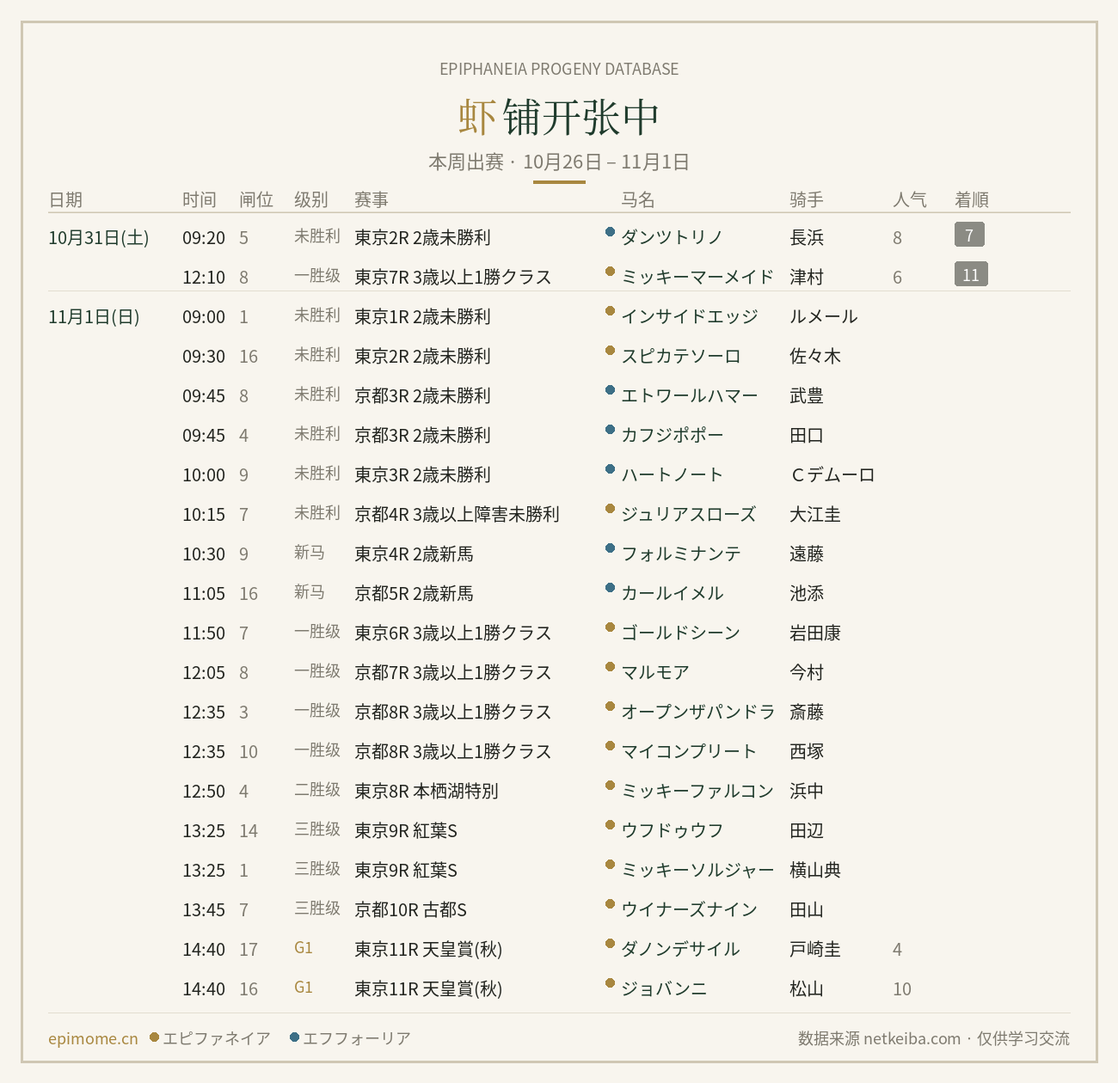
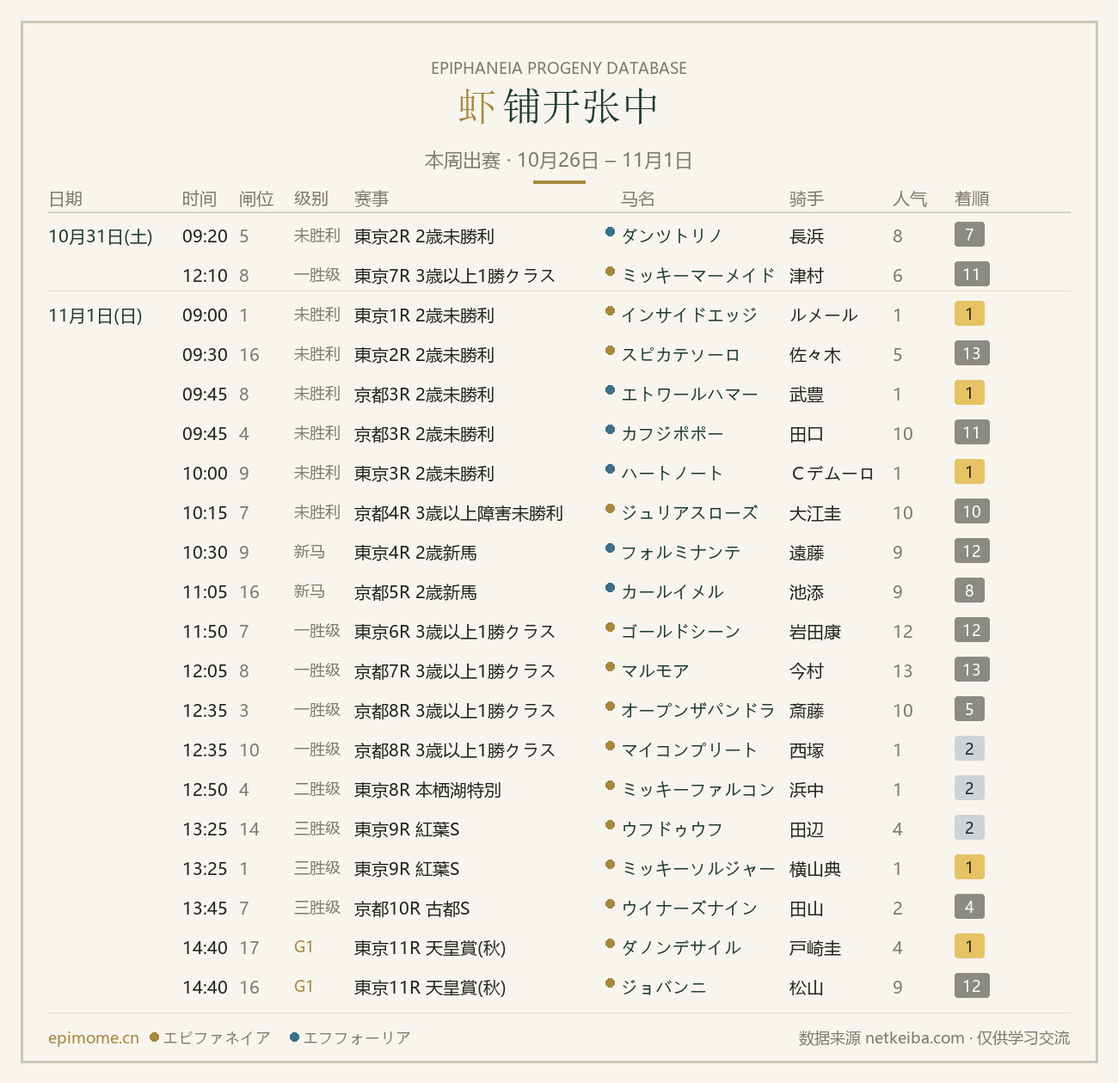
补齐 11-01 赛果并更新出赛表图片
周日定时任务未触发，本机 IP 被 netkeiba 封禁，改在大阪服务器上用有效 cookie 补抓：
补全 18 条赛果，11/01 全部 22 匹均有着順。
同时生成 weekly/2026-11-01.png 与 latest.png，更新日志记一条（33匹）。

diff --git a/thisweek.js b/thisweek.js
@@ -1,2 +1,2 @@
 // 本文件由 scrape_and_build.py 自动生成
-const 本周出马 = [{"date": "10月23日", "time": "13:10", "race": "笠松8R C11組", "cls": "", "status": "結果確定", "name": "レジオンポレール", "id": "2023103786", "jockey": "渡辺竜也", "fav": "", "order": "3", "num": "11", "sire": "エピファネイア", "region": "地方"}, {"date": "10月23日", "time": "14:25", "race": "浦和7R C1五六", "cls": "", "status": "結果確定", "name": "パドメ", "id": "2022107339", "jockey": "秋元耕成", "fav": "", "order": "12", "num": "1", "sire": "エピファネイア", "region": "地方"}, {"date": "10月23日", "time": "16:20", "race": "園田6R C3", "cls": "", "status": "結果確定", "name": "キャスパインパクト", "id": "2022100963", "jockey": "永井孝典", "fav": "", "order": "8", "num": "5", "sire": "エピファネイア", "region": "地方"}, {"date": "10月23日", "time": "17:30", "race": "園田8R C2二", "cls": "", "status": "結果確定", "name": "ヤマトフェイス", "id": "2021105013", "jockey": "田野豊三", "fav": "", "order": "2", "num": "9", "sire": "エピファネイア", "region": "地方"}, {"date": "10月24日(土)", "time": "09:05", "rid": "202605040801", "race": "東京1R 2歳未勝利", "cls": "未胜利", "status": "結果確定", "name": "マーゴットパラディ", "id": "2024101971", "jockey": "荻野極", "fav": "2番人気", "order": "3", "num": "7", "sire": "エフフォーリア", "region": "中央"}, {"date": "10月24日(土)", "time": "09:15", "rid": "202604040302", "race": "新潟2R 2歳未勝利", "cls": "未胜利", "status": "結果確定", "name": "リーゼントエース", "id": "2024104845", "jockey": "古川奈", "fav": "13番人気", "order": "9", "num": "1", "sire": "エフフォーリア", "region": "中央"}, {"date": "10月24日(土)", "time": "10:05", "rid": "202605040803", "race": "東京3R 2歳未勝利", "cls": "未胜利", "status": "結果確定", "name": "タンタフェリチア", "id": "2024101733", "jockey": "横山和", "fav": "1番人気", "order": "1", "num": "8", "sire": "エフフォーリア", "region": "中央"}, {"date": "10月24日(土)", "time": "10:05", "rid": "202605040803", "race": "東京3R 2歳未勝利", "cls": "未胜利", "status": "結果確定", "name": "ディアム", "id": "2024102901", "jockey": "横山武", "fav": "4番人気", "order": "4", "num": "7", "sire": "エフフォーリア", "region": "中央"}, {"date": "10月24日(土)", "time": "11:15", "rid": "202608040805", "race": "京都5R 2歳新馬", "cls": "新马", "status": "結果確定", "name": "ダブルインバース", "id": "2024100462", "jockey": "松山", "fav": "5番人気", "order": "3", "num": "8", "sire": "エピファネイア", "region": "中央"}, {"date": "10月24日(土)", "time": "11:35", "rid": "202604040306", "race": "新潟6R 3歳以上1勝クラス", "cls": "一胜级", "status": "結果確定", "name": "ソードマスター", "id": "2022105415", "jockey": "長浜", "fav": "11番人気", "order": "11", "num": "10", "sire": "エピファネイア", "region": "中央"}, {"date": "10月24日(土)", "time": "12:15", "rid": "202608040807", "race": "京都7R 3歳以上1勝クラス", "cls": "一胜级", "status": "結果確定", "name": "エレーデサンライズ", "id": "2023100912", "jockey": "幸", "fav": "9番人気", "order": "5", "num": "3", "sire": "エピファネイア", "region": "中央"}, {"date": "10月24日(土)", "time": "12:55", "rid": "202605040808", "race": "東京8R 3歳以上1勝クラス", "cls": "一胜级", "status": "結果確定", "name": "アートバーゼル", "id": "2023106964", "jockey": "ルメール", "fav": "1番人気", "order": "3", "num": "5", "sire": "エピファネイア", "region": "中央"}, {"date": "10月24日(土)", "time": "14:15", "rid": "202604040311", "race": "新潟11R 魚沼S", "cls": "三胜级", "status": "結果確定", "name": "フィオレストラーダ", "id": "2022100626", "jockey": "横山琉", "fav": "4番人気", "order": "12", "num": "6", "sire": "エピファネイア", "region": "中央"}, {"date": "10月24日(土)", "time": "15:01", "rid": "202604040312", "race": "新潟12R 3歳以上1勝クラス", "cls": "一胜级", "status": "結果確定", "name": "リアライズブラーヴ", "id": "2023103678", "jockey": "斎藤", "fav": "2番人気", "order": "2", "num": "6", "sire": "エピファネイア", "region": "中央"}, {"date": "10月24日", "time": "15:40", "rid": "202654102404", "race": "高知4R C3ー9", "cls": "", "status": "結果確定", "name": "エンドレスバンカー", "id": "2022102860", "jockey": "木村直輝", "fav": "", "order": "4", "num": "8", "sire": "エピファネイア", "region": "地方"}, {"date": "10月24日", "time": "15:40", "rid": "202654102404", "race": "高知4R C3ー9", "cls": "", "status": "結果確定", "name": "ケイベエ", "id": "2023102803", "jockey": "上田将司", "fav": "", "order": "9", "num": "12", "sire": "エピファネイア", "region": "地方"}, {"date": "10月25日(日)", "time": "08:50", "rid": "202605040901", "race": "東京1R 2歳未勝利", "cls": "未胜利", "status": "結果確定", "name": "ローザベッラ", "id": "2024101670", "jockey": "三浦", "fav": "7番人気", "order": "15", "num": "5", "sire": "エフフォーリア", "region": "中央"}, {"date": "10月25日(日)", "time": "10:20", "rid": "202605040904", "race": "東京4R 3歳以上障害未勝利", "cls": "未胜利", "status": "結果確定", "name": "ドリームクルーズ", "id": "2021104899", "jockey": "上野", "fav": "6番人気", "order": "8", "num": "11", "sire": "エピファネイア", "region": "中央"}, {"date": "10月25日(日)", "time": "11:10", "rid": "202605040905", "race": "東京5R 2歳新馬", "cls": "新马", "status": "結果確定", "name": "ノヴァルクス", "id": "2024106557", "jockey": "横山武", "fav": "1番人気", "order": "1", "num": "3", "sire": "エフフォーリア", "region": "中央"}, {"date": "10月25日(日)", "time": "11:10", "rid": "202605040905", "race": "東京5R 2歳新馬", "cls": "新马", "status": "結果確定", "name": "ブレッシングロード", "id": "2024106026", "jockey": "長浜", "fav": "5番人気", "order": "6", "num": "6", "sire": "エピファネイア", "region": "中央"}, {"date": "10月25日", "time": "11:15", "rid": "202635102502", "race": "盛岡2R C2十一組", "cls": "", "status": "結果確定", "name": "グロー", "id": "2019106683", "jockey": "山本聡紀", "fav": "", "order": "取止", "num": "1", "sire": "エピファネイア", "region": "地方"}, {"date": "10月25日(日)", "time": "12:00", "rid": "202604040407", "race": "新潟7R 3歳以上1勝クラス", "cls": "一胜级", "status": "結果確定", "name": "カドーダムール", "id": "2023107291", "jockey": "古川奈", "fav": "7番人気", "order": "6", "num": "5", "sire": "エピファネイア", "region": "中央"}, {"date": "10月25日(日)", "time": "12:40", "rid": "202605040908", "race": "東京8R 3歳以上1勝クラス", "cls": "一胜级", "status": "結果確定", "name": "ケールハイム", "id": "2023107138", "jockey": "菅原明", "fav": "2番人気", "order": "14", "num": "6", "sire": "エピファネイア", "region": "中央"}, {"date": "10月25日(日)", "time": "13:10", "rid": "202605040909", "race": "東京9R 三鷹特別", "cls": "二胜级", "status": "結果確定", "name": "シルバーレイン", "id": "2022104942", "jockey": "菅原明", "fav": "6番人気", "order": "11", "num": "8", "sire": "エピファネイア", "region": "中央"}, {"date": "10月25日(日)", "time": "13:25", "rid": "202608040909", "race": "京都9R 萩S", "cls": "表列赛", "status": "結果確定", "name": "ユーダブルワン", "id": "2024106002", "jockey": "西村淳", "fav": "9番人気", "order": "8", "num": "2", "sire": "エピファネイア", "region": "中央"}, {"date": "10月25日(日)", "time": "13:25", "rid": "202608040909", "race": "京都9R 萩S", "cls": "表列赛", "status": "結果確定", "name": "イッペイ", "id": "2024104442", "jockey": "浜中", "fav": "4番人気", "order": "1", "num": "7", "sire": "エフフォーリア", "region": "中央"}, {"date": "10月25日(日)", "time": "13:25", "rid": "202608040909", "race": "京都9R 萩S", "cls": "表列赛", "status": "結果確定", "name": "フランソワーズ", "id": "2024105037", "jockey": "松山", "fav": "7番人気", "order": "3", "num": "1", "sire": "エフフォーリア", "region": "中央"}, {"date": "10月25日(日)", "time": "14:40", "rid": "202608040911", "race": "京都11R 菊花賞", "cls": "G1", "status": "結果確定", "name": "ダノンヒストリー", "id": "2023107005", "jockey": "ルメール", "fav": "2番人気", "order": "3", "num": "10", "sire": "エピファネイア", "region": "中央"}, {"date": "10月25日(日)", "time": "15:01", "rid": "202604040412", "race": "新潟12R 3歳以上1勝クラス", "cls": "一胜级", "status": "結果確定", "name": "ビーグラッド", "id": "2021100683", "jockey": "小沢", "fav": "11番人気", "order": "1", "num": "6", "sire": "エピファネイア", "region": "中央"}, {"date": "10月25日", "time": "17:35", "rid": "202654102507", "race": "高知7R C3ー13", "cls": "", "status": "結果確定", "name": "トーセンブレンダ", "id": "2021104712", "jockey": "塚本直之", "fav": "", "order": "8", "num": "6", "sire": "エピファネイア", "region": "地方"}, {"date": "10月26日", "time": "19:40", "rid": "202655102612", "race": "佐賀12R SAGAリベFEVER14", "cls": "", "status": "結果確定", "name": "ハードロックスター", "id": "2022103590", "jockey": "山下裕貴", "fav": "", "order": "9", "num": "14", "sire": "エピファネイア", "region": "地方"}, {"date": "10月27日", "time": "14:15", "rid": "202648102706", "race": "名古屋6R C20組", "cls": "", "status": "出馬表", "name": "ロマンス", "id": "2023102234", "jockey": "小笠原羚", "fav": "3番人気", "order": "", "num": "9", "sire": "エピファネイア", "region": "地方"}, {"date": "10月27日", "time": "15:20", "rid": "202635102709", "race": "盛岡9R C1二組", "cls": "", "status": "出馬表", "name": "サウンドノバ", "id": "2021103250", "jockey": "塚本涼人", "fav": "6番人気", "order": "", "num": "4", "sire": "エピファネイア", "region": "地方"}, {"date": "10月27日", "time": "15:55", "rid": "202635102710", "race": "盛岡10R シェアト賞", "cls": "", "status": "結果確定", "name": "ファーザーアウェイ", "id": "2023104371", "jockey": "菅原辰徳", "fav": "", "order": "11", "num": "11", "sire": "エピファネイア", "region": "地方"}, {"date": "10月28日", "time": "10:10", "rid": "202650102802", "race": "園田2R C3一", "cls": "", "status": "出馬表", "name": "エザルターレ", "id": "2021106162", "jockey": "永井孝典", "fav": "", "order": "", "num": "8", "sire": "エピファネイア", "region": "地方"}, {"date": "10月28日", "time": "17:40", "rid": "202630102809", "race": "門別9R カシワ特別", "cls": "", "status": "出馬表", "name": "フロンテアブライト", "id": "2020106799", "jockey": "宮内勇樹", "fav": "", "order": "", "num": "6", "sire": "エピファネイア", "region": "地方"}, {"date": "10月29日", "time": "17:10", "rid": "202630102908", "race": "門別8R マタタビ特別", "cls": "", "status": "結果確定", "name": "フォーティンブラス", "id": "2023103776", "jockey": "落合玄太", "fav": "", "order": "2", "num": "6", "sire": "エピファネイア", "region": "地方"}, {"date": "10月31日(土)", "time": "09:20", "rid": "202605041002", "race": "東京2R 2歳未勝利", "cls": "未胜利", "status": "結果確定", "name": "ダンツトリノ", "id": "2024105504", "jockey": "長浜", "fav": "8", "order": "7", "num": "5", "sire": "エフフォーリア", "region": "中央"}, {"date": "10月31日(土)", "time": "12:10", "rid": "202605041007", "race": "東京7R 3歳以上1勝クラス", "cls": "一胜级", "status": "結果確定", "name": "ミッキーマーメイド", "id": "2023105002", "jockey": "津村", "fav": "6", "order": "11", "num": "8", "sire": "エピファネイア", "region": "中央"}, {"date": "10月31日", "time": "17:05", "rid": "202655103107", "race": "佐賀7R C2ー3組", "cls": "", "status": "出馬表", "name": "モスコビウム", "id": "2021103200", "jockey": "長谷川蓮", "fav": "11番人気", "order": "", "num": "11", "sire": "エピファネイア", "region": "地方"}, {"date": "10月31日", "time": "19:50", "rid": "202654103112", "race": "高知12R ファイナルレース", "cls": "", "status": "出馬表", "name": "ウインリベラーレ", "id": "2021106207", "jockey": "石本純也", "fav": "2番人気", "order": "", "num": "11", "sire": "エピファネイア", "region": "地方"}, {"date": "11月1日(日)", "time": "09:00", "rid": "202605041101", "race": "東京1R 2歳未勝利", "cls": "未胜利", "status": "出馬表", "name": "インサイドエッジ", "id": "2024107186", "jockey": "ルメール", "fav": "", "order": "", "num": "1", "sire": "エピファネイア", "region": "中央"}, {"date": "11月1日(日)", "time": "09:30", "rid": "202605041102", "race": "東京2R 2歳未勝利", "cls": "未胜利", "status": "出馬表", "name": "スピカテソーロ", "id": "2024101273", "jockey": "佐々木", "fav": "", "order": "", "num": "16", "sire": "エピファネイア", "region": "中央"}, {"date": "11月1日(日)", "time": "09:45", "rid": "202608041103", "race": "京都3R 2歳未勝利", "cls": "未胜利", "status": "出馬表", "name": "エトワールハマー", "id": "2024100737", "jockey": "武豊", "fav": "", "order": "", "num": "8", "sire": "エフフォーリア", "region": "中央"}, {"date": "11月1日(日)", "time": "09:45", "rid": "202608041103", "race": "京都3R 2歳未勝利", "cls": "未胜利", "status": "出馬表", "name": "カフジポポー", "id": "2024104468", "jockey": "田口", "fav": "", "order": "", "num": "4", "sire": "エフフォーリア", "region": "中央"}, {"date": "11月1日(日)", "time": "10:00", "rid": "202605041103", "race": "東京3R 2歳未勝利", "cls": "未胜利", "status": "出馬表", "name": "ハートノート", "id": "2024106226", "jockey": "Ｃデムーロ", "fav": "", "order": "", "num": "9", "sire": "エフフォーリア", "region": "中央"}, {"date": "11月1日(日)", "time": "10:15", "rid": "202608041104", "race": "京都4R 3歳以上障害未勝利", "cls": "未胜利", "status": "出馬表", "name": "ジュリアスローズ", "id": "2021103506", "jockey": "大江圭", "fav": "", "order": "", "num": "7", "sire": "エピファネイア", "region": "中央"}, {"date": "11月1日(日)", "time": "10:30", "rid": "202605041104", "race": "東京4R 2歳新馬", "cls": "新马", "status": "出馬表", "name": "フォルミナンテ", "id": "2024100060", "jockey": "遠藤", "fav": "", "order": "", "num": "9", "sire": "エフフォーリア", "region": "中央"}, {"date": "11月1日(日)", "time": "11:05", "rid": "202608041105", "race": "京都5R 2歳新馬", "cls": "新马", "status": "出馬表", "name": "カールイメル", "id": "2024102524", "jockey": "池添", "fav": "", "order": "", "num": "16", "sire": "エフフォーリア", "region": "中央"}, {"date": "11月1日(日)", "time": "11:50", "rid": "202605041106", "race": "東京6R 3歳以上1勝クラス", "cls": "一胜级", "status": "出馬表", "name": "ゴールドシーン", "id": "2020103727", "jockey": "岩田康", "fav": "", "order": "", "num": "7", "sire": "エピファネイア", "region": "中央"}, {"date": "11月1日", "time": "12:00", "rid": "202635110103", "race": "盛岡3R C2十一組", "cls": "", "status": "出馬表", "name": "グロー", "id": "2019106683", "jockey": "山本聡紀", "fav": "", "order": "", "num": "9", "sire": "エピファネイア", "region": "地方"}, {"date": "11月1日(日)", "time": "12:05", "rid": "202608041107", "race": "京都7R 3歳以上1勝クラス", "cls": "一胜级", "status": "出馬表", "name": "マルモア", "id": "2021105245", "jockey": "今村", "fav": "", "order": "", "num": "8", "sire": "エピファネイア", "region": "中央"}, {"date": "11月1日(日)", "time": "12:35", "rid": "202608041108", "race": "京都8R 3歳以上1勝クラス", "cls": "一胜级", "status": "出馬表", "name": "オープンザパンドラ", "id": "2023105573", "jockey": "斎藤", "fav": "", "order": "", "num": "3", "sire": "エピファネイア", "region": "中央"}, {"date": "11月1日(日)", "time": "12:35", "rid": "202608041108", "race": "京都8R 3歳以上1勝クラス", "cls": "一胜级", "status": "出馬表", "name": "マイコンプリート", "id": "2023107155", "jockey": "西塚", "fav": "", "order": "", "num": "10", "sire": "エピファネイア", "region": "中央"}, {"date": "11月1日", "time": "12:40", "rid": "202635110104", "race": "盛岡4R C2十組", "cls": "", "status": "出馬表", "name": "トゥルパーニ", "id": "2023103600", "jockey": "菅原辰徳", "fav": "", "order": "", "num": "5", "sire": "エピファネイア", "region": "地方"}, {"date": "11月1日(日)", "time": "12:50", "rid": "202605041108", "race": "東京8R 本栖湖特別", "cls": "二胜级", "status": "出馬表", "name": "ミッキーファルコン", "id": "2023107259", "jockey": "浜中", "fav": "", "order": "", "num": "4", "sire": "エピファネイア", "region": "中央"}, {"date": "11月1日(日)", "time": "13:25", "rid": "202605041109", "race": "東京9R 紅葉S", "cls": "三胜级", "status": "出馬表", "name": "ウフドゥウフ", "id": "2022105257", "jockey": "田辺", "fav": "", "order": "", "num": "14", "sire": "エピファネイア", "region": "中央"}, {"date": "11月1日(日)", "time": "13:25", "rid": "202605041109", "race": "東京9R 紅葉S", "cls": "三胜级", "status": "出馬表", "name": "ミッキーソルジャー", "id": "2022105520", "jockey": "横山典", "fav": "", "order": "", "num": "1", "sire": "エピファネイア", "region": "中央"}, {"date": "11月1日(日)", "time": "13:45", "rid": "202608041110", "race": "京都10R 古都S", "cls": "三胜级", "status": "出馬表", "name": "ウイナーズナイン", "id": "2023102820", "jockey": "田山", "fav": "", "order": "", "num": "7", "sire": "エピファネイア", "region": "中央"}, {"date": "11月1日(日)", "time": "14:40", "rid": "202605041111", "race": "東京11R 天皇賞(秋)", "cls": "G1", "status": "出馬表", "name": "ダノンデサイル", "id": "2021105143", "jockey": "戸崎圭", "fav": "4番人気", "order": "", "num": "17", "sire": "エピファネイア", "region": "中央"}, {"date": "11月1日(日)", "time": "14:40", "rid": "202605041111", "race": "東京11R 天皇賞(秋)", "cls": "G1", "status": "出馬表", "name": "ジョバンニ", "id": "2022103995", "jockey": "松山", "fav": "10番人気", "order": "", "num": "16", "sire": "エピファネイア", "region": "中央"}, {"date": "11月1日", "time": "16:05", "rid": "202654110105", "race": "高知5R 花みょうが特別", "cls": "", "status": "出馬表", "name": "スカイブルー", "id": "2022100136", "jockey": "上田将司", "fav": "", "order": "", "num": "1", "sire": "エピファネイア", "region": "地方"}, {"date": "11月1日", "time": "19:40", "rid": "202655110112", "race": "佐賀12R SAGAリベFEVER14", "cls": "", "status": "出馬表", "name": "アサガクル", "id": "2022106600", "jockey": "山田義貴", "fav": "", "order": "", "num": "8", "sire": "エピファネイア", "region": "地方"}];
+const 本周出马 = [{"date": "10月23日", "time": "13:10", "race": "笠松8R C11組", "cls": "", "status": "結果確定", "name": "レジオンポレール", "id": "2023103786", "jockey": "渡辺竜也", "fav": "", "order": "3", "num": "11", "sire": "エピファネイア", "region": "地方"}, {"date": "10月23日", "time": "14:25", "race": "浦和7R C1五六", "cls": "", "status": "結果確定", "name": "パドメ", "id": "2022107339", "jockey": "秋元耕成", "fav": "", "order": "12", "num": "1", "sire": "エピファネイア", "region": "地方"}, {"date": "10月23日", "time": "16:20", "race": "園田6R C3", "cls": "", "status": "結果確定", "name": "キャスパインパクト", "id": "2022100963", "jockey": "永井孝典", "fav": "", "order": "8", "num": "5", "sire": "エピファネイア", "region": "地方"}, {"date": "10月23日", "time": "17:30", "race": "園田8R C2二", "cls": "", "status": "結果確定", "name": "ヤマトフェイス", "id": "2021105013", "jockey": "田野豊三", "fav": "", "order": "2", "num": "9", "sire": "エピファネイア", "region": "地方"}, {"date": "10月24日(土)", "time": "09:05", "rid": "202605040801", "race": "東京1R 2歳未勝利", "cls": "未胜利", "status": "結果確定", "name": "マーゴットパラディ", "id": "2024101971", "jockey": "荻野極", "fav": "2番人気", "order": "3", "num": "7", "sire": "エフフォーリア", "region": "中央"}, {"date": "10月24日(土)", "time": "09:15", "rid": "202604040302", "race": "新潟2R 2歳未勝利", "cls": "未胜利", "status": "結果確定", "name": "リーゼントエース", "id": "2024104845", "jockey": "古川奈", "fav": "13番人気", "order": "9", "num": "1", "sire": "エフフォーリア", "region": "中央"}, {"date": "10月24日(土)", "time": "10:05", "rid": "202605040803", "race": "東京3R 2歳未勝利", "cls": "未胜利", "status": "結果確定", "name": "タンタフェリチア", "id": "2024101733", "jockey": "横山和", "fav": "1番人気", "order": "1", "num": "8", "sire": "エフフォーリア", "region": "中央"}, {"date": "10月24日(土)", "time": "10:05", "rid": "202605040803", "race": "東京3R 2歳未勝利", "cls": "未胜利", "status": "結果確定", "name": "ディアム", "id": "2024102901", "jockey": "横山武", "fav": "4番人気", "order": "4", "num": "7", "sire": "エフフォーリア", "region": "中央"}, {"date": "10月24日(土)", "time": "11:15", "rid": "202608040805", "race": "京都5R 2歳新馬", "cls": "新马", "status": "結果確定", "name": "ダブルインバース", "id": "2024100462", "jockey": "松山", "fav": "5番人気", "order": "3", "num": "8", "sire": "エピファネイア", "region": "中央"}, {"date": "10月24日(土)", "time": "11:35", "rid": "202604040306", "race": "新潟6R 3歳以上1勝クラス", "cls": "一胜级", "status": "結果確定", "name": "ソードマスター", "id": "2022105415", "jockey": "長浜", "fav": "11番人気", "order": "11", "num": "10", "sire": "エピファネイア", "region": "中央"}, {"date": "10月24日(土)", "time": "12:15", "rid": "202608040807", "race": "京都7R 3歳以上1勝クラス", "cls": "一胜级", "status": "結果確定", "name": "エレーデサンライズ", "id": "2023100912", "jockey": "幸", "fav": "9番人気", "order": "5", "num": "3", "sire": "エピファネイア", "region": "中央"}, {"date": "10月24日(土)", "time": "12:55", "rid": "202605040808", "race": "東京8R 3歳以上1勝クラス", "cls": "一胜级", "status": "結果確定", "name": "アートバーゼル", "id": "2023106964", "jockey": "ルメール", "fav": "1番人気", "order": "3", "num": "5", "sire": "エピファネイア", "region": "中央"}, {"date": "10月24日(土)", "time": "14:15", "rid": "202604040311", "race": "新潟11R 魚沼S", "cls": "三胜级", "status": "結果確定", "name": "フィオレストラーダ", "id": "2022100626", "jockey": "横山琉", "fav": "4番人気", "order": "12", "num": "6", "sire": "エピファネイア", "region": "中央"}, {"date": "10月24日(土)", "time": "15:01", "rid": "202604040312", "race": "新潟12R 3歳以上1勝クラス", "cls": "一胜级", "status": "結果確定", "name": "リアライズブラーヴ", "id": "2023103678", "jockey": "斎藤", "fav": "2番人気", "order": "2", "num": "6", "sire": "エピファネイア", "region": "中央"}, {"date": "10月24日", "time": "15:40", "rid": "202654102404", "race": "高知4R C3ー9", "cls": "", "status": "結果確定", "name": "エンドレスバンカー", "id": "2022102860", "jockey": "木村直輝", "fav": "", "order": "4", "num": "8", "sire": "エピファネイア", "region": "地方"}, {"date": "10月24日", "time": "15:40", "rid": "202654102404", "race": "高知4R C3ー9", "cls": "", "status": "結果確定", "name": "ケイベエ", "id": "2023102803", "jockey": "上田将司", "fav": "", "order": "9", "num": "12", "sire": "エピファネイア", "region": "地方"}, {"date": "10月25日(日)", "time": "08:50", "rid": "202605040901", "race": "東京1R 2歳未勝利", "cls": "未胜利", "status": "結果確定", "name": "ローザベッラ", "id": "2024101670", "jockey": "三浦", "fav": "7番人気", "order": "15", "num": "5", "sire": "エフフォーリア", "region": "中央"}, {"date": "10月25日(日)", "time": "10:20", "rid": "202605040904", "race": "東京4R 3歳以上障害未勝利", "cls": "未胜利", "status": "結果確定", "name": "ドリームクルーズ", "id": "2021104899", "jockey": "上野", "fav": "6番人気", "order": "8", "num": "11", "sire": "エピファネイア", "region": "中央"}, {"date": "10月25日(日)", "time": "11:10", "rid": "202605040905", "race": "東京5R 2歳新馬", "cls": "新马", "status": "結果確定", "name": "ノヴァルクス", "id": "2024106557", "jockey": "横山武", "fav": "1番人気", "order": "1", "num": "3", "sire": "エフフォーリア", "region": "中央"}, {"date": "10月25日(日)", "time": "11:10", "rid": "202605040905", "race": "東京5R 2歳新馬", "cls": "新马", "status": "結果確定", "name": "ブレッシングロード", "id": "2024106026", "jockey": "長浜", "fav": "5番人気", "order": "6", "num": "6", "sire": "エピファネイア", "region": "中央"}, {"date": "10月25日", "time": "11:15", "rid": "202635102502", "race": "盛岡2R C2十一組", "cls": "", "status": "結果確定", "name": "グロー", "id": "2019106683", "jockey": "山本聡紀", "fav": "", "order": "取止", "num": "1", "sire": "エピファネイア", "region": "地方"}, {"date": "10月25日(日)", "time": "12:00", "rid": "202604040407", "race": "新潟7R 3歳以上1勝クラス", "cls": "一胜级", "status": "結果確定", "name": "カドーダムール", "id": "2023107291", "jockey": "古川奈", "fav": "7番人気", "order": "6", "num": "5", "sire": "エピファネイア", "region": "中央"}, {"date": "10月25日(日)", "time": "12:40", "rid": "202605040908", "race": "東京8R 3歳以上1勝クラス", "cls": "一胜级", "status": "結果確定", "name": "ケールハイム", "id": "2023107138", "jockey": "菅原明", "fav": "2番人気", "order": "14", "num": "6", "sire": "エピファネイア", "region": "中央"}, {"date": "10月25日(日)", "time": "13:10", "rid": "202605040909", "race": "東京9R 三鷹特別", "cls": "二胜级", "status": "結果確定", "name": "シルバーレイン", "id": "2022104942", "jockey": "菅原明", "fav": "6番人気", "order": "11", "num": "8", "sire": "エピファネイア", "region": "中央"}, {"date": "10月25日(日)", "time": "13:25", "rid": "202608040909", "race": "京都9R 萩S", "cls": "表列赛", "status": "結果確定", "name": "ユーダブルワン", "id": "2024106002", "jockey": "西村淳", "fav": "9番人気", "order": "8", "num": "2", "sire": "エピファネイア", "region": "中央"}, {"date": "10月25日(日)", "time": "13:25", "rid": "202608040909", "race": "京都9R 萩S", "cls": "表列赛", "status": "結果確定", "name": "イッペイ", "id": "2024104442", "jockey": "浜中", "fav": "4番人気", "order": "1", "num": "7", "sire": "エフフォーリア", "region": "中央"}, {"date": "10月25日(日)", "time": "13:25", "rid": "202608040909", "race": "京都9R 萩S", "cls": "表列赛", "status": "結果確定", "name": "フランソワーズ", "id": "2024105037", "jockey": "松山", "fav": "7番人気", "order": "3", "num": "1", "sire": "エフフォーリア", "region": "中央"}, {"date": "10月25日(日)", "time": "14:40", "rid": "202608040911", "race": "京都11R 菊花賞", "cls": "G1", "status": "結果確定", "name": "ダノンヒストリー", "id": "2023107005", "jockey": "ルメール", "fav": "2番人気", "order": "3", "num": "10", "sire": "エピファネイア", "region": "中央"}, {"date": "10月25日(日)", "time": "15:01", "rid": "202604040412", "race": "新潟12R 3歳以上1勝クラス", "cls": "一胜级", "status": "結果確定", "name": "ビーグラッド", "id": "2021100683", "jockey": "小沢", "fav": "11番人気", "order": "1", "num": "6", "sire": "エピファネイア", "region": "中央"}, {"date": "10月25日", "time": "17:35", "rid": "202654102507", "race": "高知7R C3ー13", "cls": "", "status": "結果確定", "name": "トーセンブレンダ", "id": "2021104712", "jockey": "塚本直之", "fav": "", "order": "8", "num": "6", "sire": "エピファネイア", "region": "地方"}, {"date": "10月26日", "time": "19:40", "rid": "202655102612", "race": "佐賀12R SAGAリベFEVER14", "cls": "", "status": "結果確定", "name": "ハードロックスター", "id": "2022103590", "jockey": "山下裕貴", "fav": "", "order": "9", "num": "14", "sire": "エピファネイア", "region": "地方"}, {"date": "10月27日", "time": "14:15", "rid": "202648102706", "race": "名古屋6R C20組", "cls": "", "status": "出馬表", "name": "ロマンス", "id": "2023102234", "jockey": "小笠原羚", "fav": "3番人気", "order": "", "num": "9", "sire": "エピファネイア", "region": "地方"}, {"date": "10月27日", "time": "15:20", "rid": "202635102709", "race": "盛岡9R C1二組", "cls": "", "status": "出馬表", "name": "サウンドノバ", "id": "2021103250", "jockey": "塚本涼人", "fav": "6番人気", "order": "", "num": "4", "sire": "エピファネイア", "region": "地方"}, {"date": "10月27日", "time": "15:55", "rid": "202635102710", "race": "盛岡10R シェアト賞", "cls": "", "status": "結果確定", "name": "ファーザーアウェイ", "id": "2023104371", "jockey": "菅原辰徳", "fav": "", "order": "11", "num": "11", "sire": "エピファネイア", "region": "地方"}, {"date": "10月28日", "time": "10:10", "rid": "202650102802", "race": "園田2R C3一", "cls": "", "status": "出馬表", "name": "エザルターレ", "id": "2021106162", "jockey": "永井孝典", "fav": "", "order": "", "num": "8", "sire": "エピファネイア", "region": "地方"}, {"date": "10月28日", "time": "17:40", "rid": "202630102809", "race": "門別9R カシワ特別", "cls": "", "status": "出馬表", "name": "フロンテアブライト", "id": "2020106799", "jockey": "宮内勇樹", "fav": "", "order": "", "num": "6", "sire": "エピファネイア", "region": "地方"}, {"date": "10月29日", "time": "17:10", "rid": "202630102908", "race": "門別8R マタタビ特別", "cls": "", "status": "結果確定", "name": "フォーティンブラス", "id": "2023103776", "jockey": "落合玄太", "fav": "", "order": "2", "num": "6", "sire": "エピファネイア", "region": "地方"}, {"date": "10月31日(土)", "time": "09:20", "rid": "202605041002", "race": "東京2R 2歳未勝利", "cls": "未胜利", "status": "結果確定", "name": "ダンツトリノ", "id": "2024105504", "jockey": "長浜", "fav": "8", "order": "7", "num": "5", "sire": "エフフォーリア", "region": "中央"}, {"date": "10月31日(土)", "time": "12:10", "rid": "202605041007", "race": "東京7R 3歳以上1勝クラス", "cls": "一胜级", "status": "結果確定", "name": "ミッキーマーメイド", "id": "2023105002", "jockey": "津村", "fav": "6", "order": "11", "num": "8", "sire": "エピファネイア", "region": "中央"}, {"date": "10月31日", "time": "17:05", "rid": "202655103107", "race": "佐賀7R C2ー3組", "cls": "", "status": "結果確定", "name": "モスコビウム", "id": "2021103200", "jockey": "長谷川蓮", "fav": "", "order": "9", "num": "11", "sire": "エピファネイア", "region": "地方"}, {"date": "10月31日", "time": "19:50", "rid": "202654103112", "race": "高知12R ファイナルレース", "cls": "", "status": "結果確定", "name": "ウインリベラーレ", "id": "2021106207", "jockey": "石本純也", "fav": "", "order": "3", "num": "11", "sire": "エピファネイア", "region": "地方"}, {"date": "11月1日(日)", "time": "09:00", "rid": "202605041101", "race": "東京1R 2歳未勝利", "cls": "未胜利", "status": "結果確定", "name": "インサイドエッジ", "id": "2024107186", "jockey": "ルメール", "fav": "1", "order": "1", "num": "1", "sire": "エピファネイア", "region": "中央"}, {"date": "11月1日(日)", "time": "09:30", "rid": "202605041102", "race": "東京2R 2歳未勝利", "cls": "未胜利", "status": "結果確定", "name": "スピカテソーロ", "id": "2024101273", "jockey": "佐々木", "fav": "5", "order": "13", "num": "16", "sire": "エピファネイア", "region": "中央"}, {"date": "11月1日(日)", "time": "09:45", "rid": "202608041103", "race": "京都3R 2歳未勝利", "cls": "未胜利", "status": "結果確定", "name": "エトワールハマー", "id": "2024100737", "jockey": "武豊", "fav": "1", "order": "1", "num": "8", "sire": "エフフォーリア", "region": "中央"}, {"date": "11月1日(日)", "time": "09:45", "rid": "202608041103", "race": "京都3R 2歳未勝利", "cls": "未胜利", "status": "結果確定", "name": "カフジポポー", "id": "2024104468", "jockey": "田口", "fav": "10", "order": "11", "num": "4", "sire": "エフフォーリア", "region": "中央"}, {"date": "11月1日(日)", "time": "10:00", "rid": "202605041103", "race": "東京3R 2歳未勝利", "cls": "未胜利", "status": "結果確定", "name": "ハートノート", "id": "2024106226", "jockey": "Ｃデムーロ", "fav": "1", "order": "1", "num": "9", "sire": "エフフォーリア", "region": "中央"}, {"date": "11月1日(日)", "time": "10:15", "rid": "202608041104", "race": "京都4R 3歳以上障害未勝利", "cls": "未胜利", "status": "結果確定", "name": "ジュリアスローズ", "id": "2021103506", "jockey": "大江圭", "fav": "10", "order": "10", "num": "7", "sire": "エピファネイア", "region": "中央"}, {"date": "11月1日(日)", "time": "10:30", "rid": "202605041104", "race": "東京4R 2歳新馬", "cls": "新马", "status": "結果確定", "name": "フォルミナンテ", "id": "2024100060", "jockey": "遠藤", "fav": "9", "order": "12", "num": "9", "sire": "エフフォーリア", "region": "中央"}, {"date": "11月1日(日)", "time": "11:05", "rid": "202608041105", "race": "京都5R 2歳新馬", "cls": "新马", "status": "結果確定", "name": "カールイメル", "id": "2024102524", "jockey": "池添", "fav": "9", "order": "8", "num": "16", "sire": "エフフォーリア", "region": "中央"}, {"date": "11月1日(日)", "time": "11:50", "rid": "202605041106", "race": "東京6R 3歳以上1勝クラス", "cls": "一胜级", "status": "結果確定", "name": "ゴールドシーン", "id": "2020103727", "jockey": "岩田康", "fav": "12", "order": "12", "num": "7", "sire": "エピファネイア", "region": "中央"}, {"date": "11月1日", "time": "12:00", "rid": "202635110103", "race": "盛岡3R C2十一組", "cls": "", "status": "結果確定", "name": "グロー", "id": "2019106683", "jockey": "山本聡紀", "fav": "", "order": "5", "num": "9", "sire": "エピファネイア", "region": "地方"}, {"date": "11月1日(日)", "time": "12:05", "rid": "202608041107", "race": "京都7R 3歳以上1勝クラス", "cls": "一胜级", "status": "結果確定", "name": "マルモア", "id": "2021105245", "jockey": "今村", "fav": "13", "order": "13", "num": "8", "sire": "エピファネイア", "region": "中央"}, {"date": "11月1日(日)", "time": "12:35", "rid": "202608041108", "race": "京都8R 3歳以上1勝クラス", "cls": "一胜级", "status": "結果確定", "name": "オープンザパンドラ", "id": "2023105573", "jockey": "斎藤", "fav": "10", "order": "5", "num": "3", "sire": "エピファネイア", "region": "中央"}, {"date": "11月1日(日)", "time": "12:35", "rid": "202608041108", "race": "京都8R 3歳以上1勝クラス", "cls": "一胜级", "status": "結果確定", "name": "マイコンプリート", "id": "2023107155", "jockey": "西塚", "fav": "1", "order": "2", "num": "10", "sire": "エピファネイア", "region": "中央"}, {"date": "11月1日", "time": "12:40", "rid": "202635110104", "race": "盛岡4R C2十組", "cls": "", "status": "結果確定", "name": "トゥルパーニ", "id": "2023103600", "jockey": "菅原辰徳", "fav": "", "order": "4", "num": "5", "sire": "エピファネイア", "region": "地方"}, {"date": "11月1日(日)", "time": "12:50", "rid": "202605041108", "race": "東京8R 本栖湖特別", "cls": "二胜级", "status": "結果確定", "name": "ミッキーファルコン", "id": "2023107259", "jockey": "浜中", "fav": "1", "order": "2", "num": "4", "sire": "エピファネイア", "region": "中央"}, {"date": "11月1日(日)", "time": "13:25", "rid": "202605041109", "race": "東京9R 紅葉S", "cls": "三胜级", "status": "結果確定", "name": "ウフドゥウフ", "id": "2022105257", "jockey": "田辺", "fav": "4", "order": "2", "num": "14", "sire": "エピファネイア", "region": "中央"}, {"date": "11月1日(日)", "time": "13:25", "rid": "202605041109", "race": "東京9R 紅葉S", "cls": "三胜级", "status": "結果確定", "name": "ミッキーソルジャー", "id": "2022105520", "jockey": "横山典", "fav": "1", "order": "1", "num": "1", "sire": "エピファネイア", "region": "中央"}, {"date": "11月1日(日)", "time": "13:45", "rid": "202608041110", "race": "京都10R 古都S", "cls": "三胜级", "status": "結果確定", "name": "ウイナーズナイン", "id": "2023102820", "jockey": "田山", "fav": "2", "order": "4", "num": "7", "sire": "エピファネイア", "region": "中央"}, {"date": "11月1日(日)", "time": "14:40", "rid": "202605041111", "race": "東京11R 天皇賞(秋)", "cls": "G1", "status": "結果確定", "name": "ダノンデサイル", "id": "2021105143", "jockey": "戸崎圭", "fav": "4", "order": "1", "num": "17", "sire": "エピファネイア", "region": "中央"}, {"date": "11月1日(日)", "time": "14:40", "rid": "202605041111", "race": "東京11R 天皇賞(秋)", "cls": "G1", "status": "結果確定", "name": "ジョバンニ", "id": "2022103995", "jockey": "松山", "fav": "9", "order": "12", "num": "16", "sire": "エピファネイア", "region": "中央"}, {"date": "11月1日", "time": "16:05", "rid": "202654110105", "race": "高知5R 花みょうが特別", "cls": "", "status": "結果確定", "name": "スカイブルー", "id": "2022100136", "jockey": "上田将司", "fav": "", "order": "8", "num": "1", "sire": "エピファネイア", "region": "地方"}, {"date": "11月1日", "time": "19:40", "rid": "202655110112", "race": "佐賀12R SAGAリベFEVER14", "cls": "", "status": "結果確定", "name": "アサガクル", "id": "2022106600", "jockey": "山田義貴", "fav": "", "order": "4", "num": "8", "sire": "エピファネイア", "region": "地方"}];

diff --git a/updates.js b/updates.js
@@ -1,3 +1,3 @@
 // 数据更新由脚本自动维护；功能更新请手动编辑
 const 功能更新 = [{"date": "2026-10-29", "text": "首页「最新动向」改为日志形式：保留每次改动记录，显示最近 10 条"}, {"date": "2026-10-29", "text": "新增「母父」名录：以エピファネイア为母父的马，表格自动切换为「母 / 父」两列"}, {"date": "2026-10-29", "text": "列表页改版：左侧马名书签（种马 / 生年 / 状态）+ 9 列主表，点行展开母父、生日与价格"}, {"date": "2026-10-29", "text": "筛选条件写入网址，可分享、收藏，刷新也不会丢"}, {"date": "2026-10-29", "text": "分页可以直接选择页码"}, {"date": "2026-10-29", "text": "表格横向滚动时，马名列固定在左侧"}, {"date": "2026-10-29", "text": "新增「按状态」筛选：現役 / 地方 / 退役・繁殖 / 退役 / 未登录"}, {"date": "2026-10-29", "text": "修复从详情页返回时跳到首页的问题，现在会回到上一页"}, {"date": "2026-10-28", "text": "新增「次走 / 近况」：在 Excel 里记一栏，同步到马详情页与首页「最新动向」"}, {"date": "2026-10-28", "text": "更新动向或数据后自动更换版本号，避免浏览器显示旧内容"}, {"date": "2026-10-27", "text": "修正两匹转籍地方的马被误标为「退役」"}, {"date": "2026-10-27", "text": "列表页：种马色点、页头统计可点击筛选、默认按赏金排序并标注、数字列右对齐"}, {"date": "2026-10-24", "text": "分享卡支持完整 5 代血统表与全部比赛履历，生成后可预览、下载"}, {"date": "2026-10-24", "text": "本周出赛自动合并旧数据，跑完的比赛不再从列表消失"}, {"date": "2026-10-24", "text": "出赛更新增加备份时段，降低漏更概率"}, {"date": "2026-10-23", "text": "新增店长专属页面：店长资料 + 店员（产驹）一览"}, {"date": "2026-10-23", "text": "本周出赛只显示本周，日期标注星期，新增闸位列"}, {"date": "2026-10-23", "text": "赛事级别细分为 G1 / G2 / G3"}, {"date": "2026-10-23", "text": "自动生成本周出赛表图片（含级别、闸位、名次）"}, {"date": "2026-10-23", "text": "列表「年龄」改为「生年」，现役马详情页显示年龄"}, {"date": "2026-10-23", "text": "新增「中文资讯」与 B 站视频栏目"}, {"date": "2026-10-23", "text": "马详情与店长页新增场地 / 距离适性统计"}, {"date": "2026-10-23", "text": "全站加入纸纹背景（纯 CSS，无额外加载）"}, {"date": "2026-10-22", "text": "首页改版：导航、通用搜索、今日寿星、信息更新"}, {"date": "2026-10-22", "text": "详情页比赛履历新增人气、体重、上がり、通過、着差、タイム"}, {"date": "2026-10-22", "text": "首屏数据由 7MB 拆分按需加载，访问速度明显提升"}, {"date": "2026-10-22", "text": "统一返回按钮样式，支持逐级返回"}, {"date": "2026-10-21", "text": "名次改为金 / 银 / 铜 / 灰色块"}, {"date": "2026-10-21", "text": "本周出赛新增开赛时间（北京时间）并按时间排序"}, {"date": "2026-10-20", "text": "网站上线 epimome.cn，收录 1454 匹产驹"}, {"date": "2026-10-20", "text": "支持搜索、筛选、血统表与比赛履历"}];
-const 数据更新 = [{"date": "2026-10-31", "text": "更新本周出赛（33匹）"}, {"date": "2026-10-30", "text": "更新本周出赛（42匹）"}, {"date": "2026-10-27", "text": "更新产驹数据（1454匹）"}, {"date": "2026-10-27", "text": "更新本周出赛（36匹）"}, {"date": "2026-10-26", "text": "更新产驹数据（1454匹）"}, {"date": "2026-10-26", "text": "更新本周出赛（35匹）"}, {"date": "2026-10-26", "text": "更新本周出赛（26匹）"}, {"date": "2026-10-25", "text": "更新本周出赛（26匹）"}, {"date": "2026-10-25", "text": "更新本周出赛（23匹）"}, {"date": "2026-10-24", "text": "更新本周出赛（22匹）"}, {"date": "2026-10-24", "text": "更新本周出赛（25匹）"}, {"date": "2026-10-23", "text": "更新产驹数据（1454匹）"}, {"date": "2026-10-23", "text": "更新本周出赛（29匹）"}, {"date": "2026-10-22", "text": "更新本周出赛（28匹）"}, {"date": "2026-10-22", "text": "更新本周出赛（6匹）"}, {"date": "2026-10-22", "text": "更新产驹数据（1454匹）"}, {"date": "2026-10-22", "text": "更新本周出赛（39匹）"}, {"date": "2026-10-21", "text": "更新产驹数据（1454匹）"}, {"date": "2026-10-20", "text": "更新产驹数据（1454匹）"}];
+const 数据更新 = [{"date": "2026-11-01", "text": "更新本周出赛（33匹）"}, {"date": "2026-10-31", "text": "更新本周出赛（33匹）"}, {"date": "2026-10-30", "text": "更新本周出赛（42匹）"}, {"date": "2026-10-27", "text": "更新产驹数据（1454匹）"}, {"date": "2026-10-27", "text": "更新本周出赛（36匹）"}, {"date": "2026-10-26", "text": "更新产驹数据（1454匹）"}, {"date": "2026-10-26", "text": "更新本周出赛（35匹）"}, {"date": "2026-10-26", "text": "更新本周出赛（26匹）"}, {"date": "2026-10-25", "text": "更新本周出赛（26匹）"}, {"date": "2026-10-25", "text": "更新本周出赛（23匹）"}, {"date": "2026-10-24", "text": "更新本周出赛（22匹）"}, {"date": "2026-10-24", "text": "更新本周出赛（25匹）"}, {"date": "2026-10-23", "text": "更新产驹数据（1454匹）"}, {"date": "2026-10-23", "text": "更新本周出赛（29匹）"}, {"date": "2026-10-22", "text": "更新本周出赛（28匹）"}, {"date": "2026-10-22", "text": "更新本周出赛（6匹）"}, {"date": "2026-10-22", "text": "更新产驹数据（1454匹）"}, {"date": "2026-10-22", "text": "更新本周出赛（39匹）"}, {"date": "2026-10-21", "text": "更新产驹数据（1454匹）"}, {"date": "2026-10-20", "text": "更新产驹数据（1454匹）"}];

diff --git a/index.html b/index.html
@@ -748,16 +748,16 @@
     </div>
   </div>
 
-<script src="data.js?v=2026102709"></script>
-<script src="bms.js?v=202610292118"></script>
-<script src="updates.js?v=202611011527"></script>
-<script src="thisweek.js?v=2026102709"></script>
-<script src="corrections.js?v=2026102801"></script>
-<script src="sire-info.js?v=2026102709"></script>
-<script src="news.js?v=2026102709"></script>
-<script src="videos.js?v=2026102709"></script>
-<script src="stats.js?v=2026102709"></script>
-<script src="moves.js?v=202610292223"></script>
+<script src="data.js?v=2026110121"></script>
+<script src="bms.js?v=2026110121"></script>
+<script src="updates.js?v=2026110121"></script>
+<script src="thisweek.js?v=2026110121"></script>
+<script src="corrections.js?v=2026110121"></script>
+<script src="sire-info.js?v=2026110121"></script>
+<script src="news.js?v=2026110121"></script>
+<script src="videos.js?v=2026110121"></script>
+<script src="stats.js?v=2026110121"></script>
+<script src="moves.js?v=2026110121"></script>
 <script>
   const data = 产驹数据;
   // 母父产驹：エピファネイア 作为母父（外祖父）的马，由抓取脚本生成 bms.js
